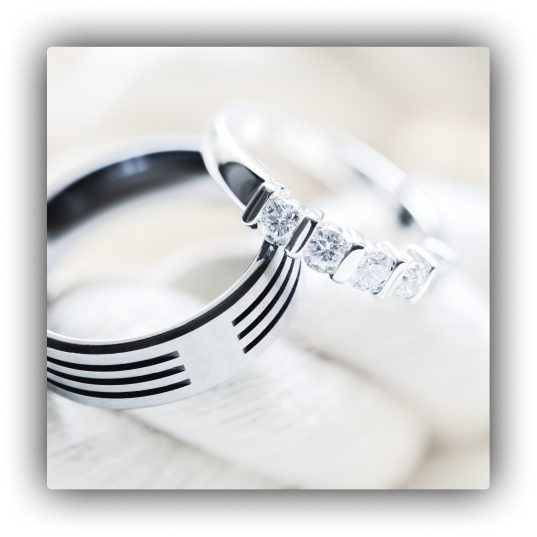
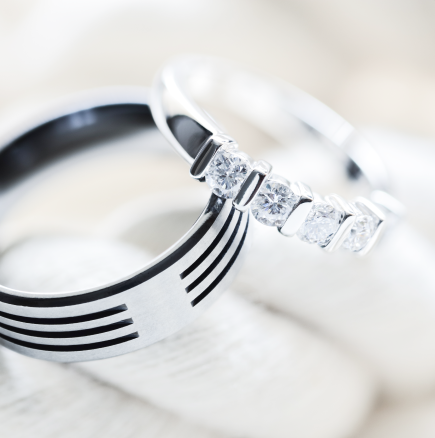
add layout for iPad(768px)

diff --git a/src/styles/_image.scss b/src/styles/_image.scss
@@ -1,6 +1,6 @@
 .image {
-  width: 535px;
-  height: 535px;
+  width: 442px;
+  height: 442px;
   position: relative;
 
   &::after {
@@ -9,7 +9,7 @@
     height: 190px;
     position: absolute;
     top: calc(50% - 125px);
-    right: -60px;
+    right: -110px;
 
     border: 18px solid $accent-color;
   }
@@ -22,15 +22,15 @@
   }
 
   &__title-container {
-    height: 442px;
+    height: 100%;
     width: 76px;
     padding: 15px 0;
     display: flex;
     align-items: flex-end;
     justify-content: center;
     position: absolute;
-    top: 46px;
-    left: 44px;
+    top: 0;
+    left: 0;
 
     background-color: black;
   }
@@ -48,12 +48,12 @@
     &::after {
       position: absolute;
       top: calc(50% - 125px);
-      left: -65px;
+      left: -115px;
     }
 
     .image__title-container {
       align-items: flex-start;
-      right: 44px;
+      right: 0;
       left: unset;
     }
   
@@ -63,24 +63,23 @@
   }
 
   @media screen and (max-width: 1300px) {
-    width: 400px;
-    height: 400px;
+    width: 350px;
+    height: 350px;
 
     &::after {
       content: "";
       width: 120px;
-      height: 120px;
+      height: 130px;
       top: calc(50% - 75px);
-      right: -35px;
+      right: -70px;
   
       border: 12px solid $accent-color;
     }
 
     &__title-container {
-      height: 331px;
       width: 65px;
-      top: 34px;
-      left: 35px;
+      top: 0;
+      left: 0;
     }
 
     &__title {
@@ -91,11 +90,11 @@
       &::after {
         position: absolute;
         top: calc(50% - 75px);
-        left: -40px;
+        left: -75px;
       }
 
       .image__title-container {
-        right: 35px;
+        right: 0;
       }
     }
   }

diff --git a/src/styles/_specialties.scss b/src/styles/_specialties.scss
@@ -1,5 +1,5 @@
 .specialties {
-  padding: 0 75px 42px 140px;
+  padding: 0 75px;
 
   text-align: center;
   color: $main-color;
@@ -8,12 +8,13 @@
   background-size: cover;
 
   &__subtitle {
-    padding-top: 45px;
+    padding: 45px 0;
     letter-spacing: 0.5em;
     text-transform: uppercase;
   }
 
   &__info {
+    padding-left: 120px;
     display: flex;
     justify-content: space-between;
     align-items: center;
@@ -38,6 +39,10 @@
     color: rgba(255, 255, 255, 0.8);
   }
 
+  &__buttons {
+    padding: 42px 0;
+  }
+
   &__button {
     width: 10px;
     height: 10px;
@@ -60,10 +65,21 @@
   }
 
   @media screen and (max-width: 1200px) {
-    padding: 0 65px 42px 130px;
+    padding: 0 60px;
+
+    &__info {
+      padding-left: 75px;
+    }
 
     &__item {
       max-width: 430px;
+      line-height: 26px;
+    }
+  }
+
+  @media screen and (max-width: 1000px) {
+    &__item {
+      max-width: 400px;
       line-height: 26px;
     }
   }

diff --git a/src/styles/_events.scss b/src/styles/_events.scss
@@ -1,5 +1,5 @@
 .events {
-  padding: 45px 120px 45px;
+  padding: 0 75px;
   text-align: center;
   color: $main-color;
 
@@ -8,16 +8,19 @@
   background-size: cover;
 
   &__subtitle {
+    padding: 45px 0;
     letter-spacing: 0.5em;
     text-transform: uppercase;
   }
 
   &__images {
+    padding: 0 120px;
     display: flex;
     justify-content: space-between;
   }
 
   &__contacts {
+    padding: 42px 0;
     font-weight: normal;
     color: rgba(255, 255, 255, 0.5);
   }
@@ -28,5 +31,15 @@
 
   @media screen and (max-width: 1300px) {
     padding: 45px 110px 45px;
+  }
+
+  @media screen and (max-width: 1200px) {
+    padding: 0 60px;
+
+    &__images {
+      padding: 0 75px;
+      display: flex;
+      justify-content: space-between;
+    }
   }
 }

diff --git a/src/styles/_booking.scss b/src/styles/_booking.scss
@@ -1,8 +1,8 @@
 .booking {
-  padding: 25px 75px 65px;
+  padding: 70px 120px 120px 75px;
   position: relative;
   display: flex;
-  justify-content: flex-end;
+  justify-content: space-between;
   align-items: center;
 
   &__info {
@@ -57,17 +57,26 @@
   }
 
   @media screen and (max-width: 1200px) {
-    padding: 25px 20px 65px 60px;
+    padding: 70px 60px 120px;
     justify-content: space-between;
 
     &__info {
       width: 470px;
-      height: fit-content;
     }
 
     &__input {
       width: 230px;
       height: 46px;
+    }
+  }
+
+  @media screen and (max-width: 1000px) {
+    &__info {
+      width: 400px;
+    }
+
+    &__input {
+      width: 190px;
     }
   }
 }

diff --git a/src/styles/_header.scss b/src/styles/_header.scss
@@ -168,7 +168,11 @@
     }
 
     &__main {
-      margin: 0 65px;
+      margin: 0 60px;
     }
+  }
+
+  @media screen and (max-width: 1000px) {
+    height: 600px;
   }
 }

diff --git a/src/styles/_menu.scss b/src/styles/_menu.scss
@@ -48,4 +48,8 @@
     margin: 0 10px 30px;
     white-space: nowrap;
   }
+
+  @media screen and (max-width: 1200px) {
+    padding: 67px 60px 45px;
+  }
 }
